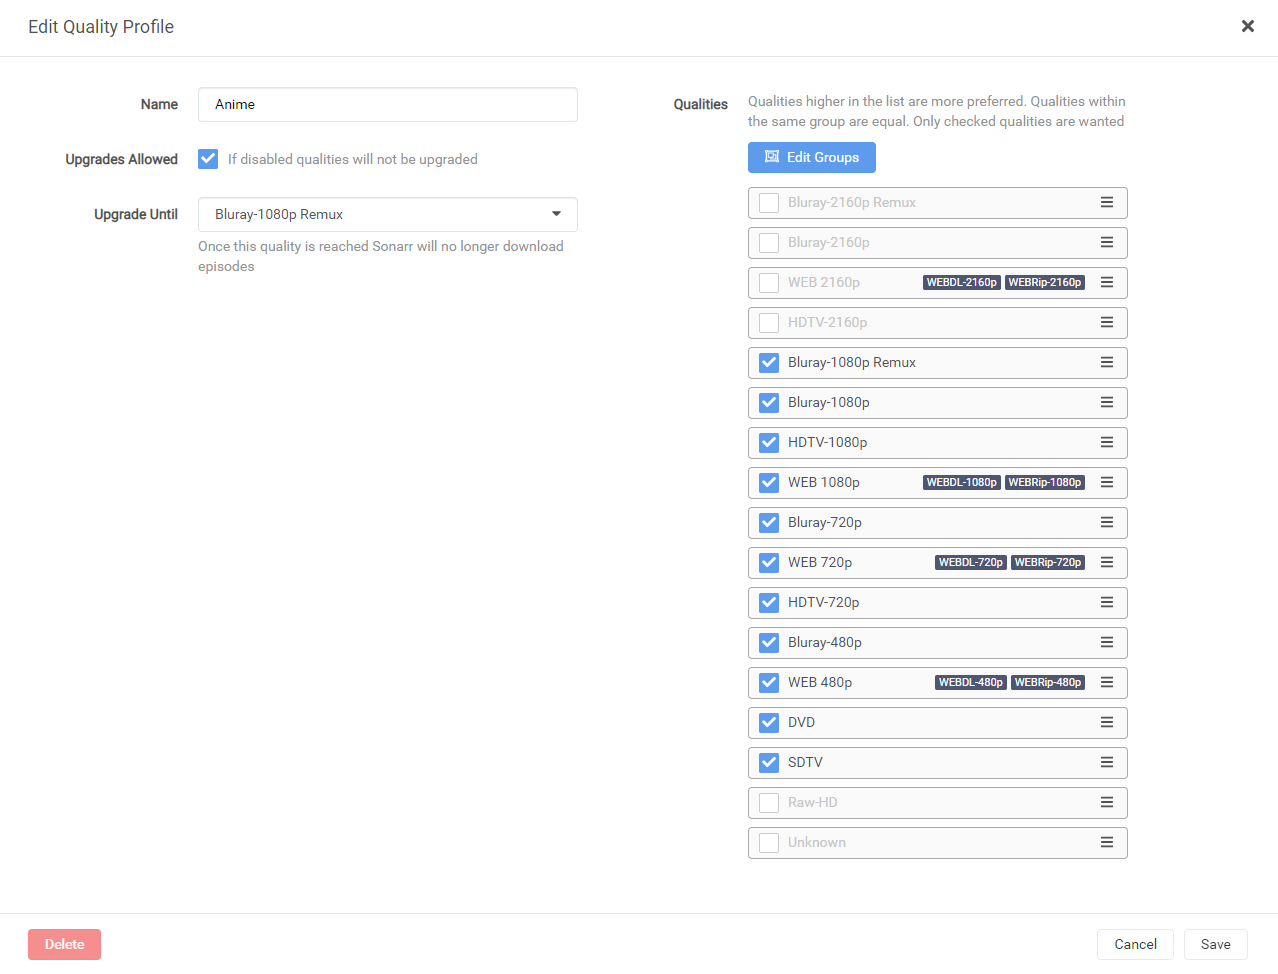
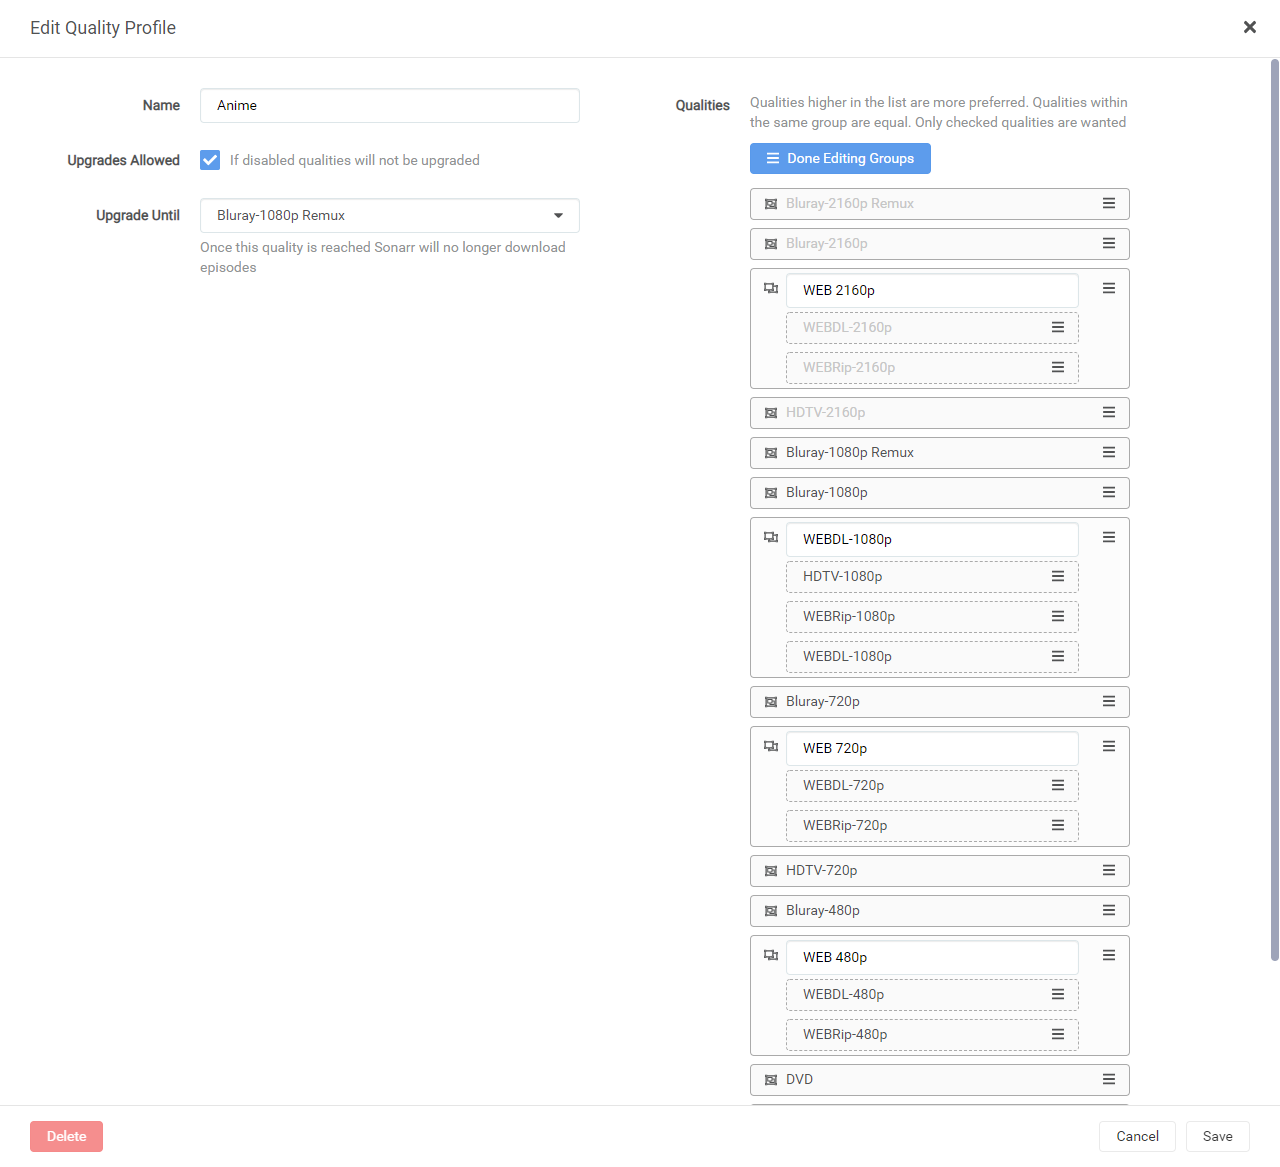
Edit HDTV-1080p and image

diff --git a/README.md b/README.md
@@ -24,7 +24,7 @@ There a few settings which make life a lot easier when tracking down and keeping
 
 ## Quality Profile
 
-We need to set HDTV-1080p | HDTV-720p above WEB release as some groups have releases with incorrectly tagged media which causes issues when it thinks it is the best release.
+We need to set add HDTV-1080p into the same group as WEB-DL and WEBRip 1080p so that it will download correctly and not upgrade past HDTV-1080P if Preferred Words does not allow it.
 
 ![Image](images/QP.png)
 
